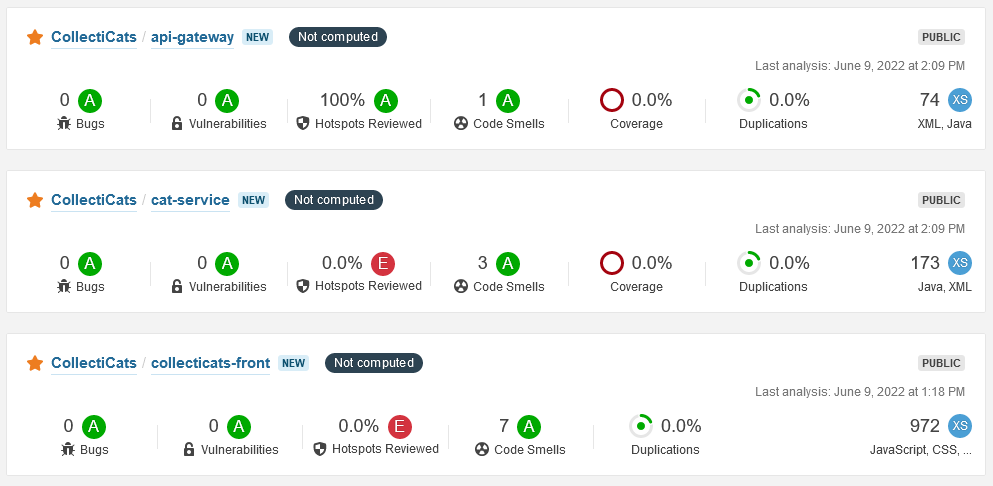
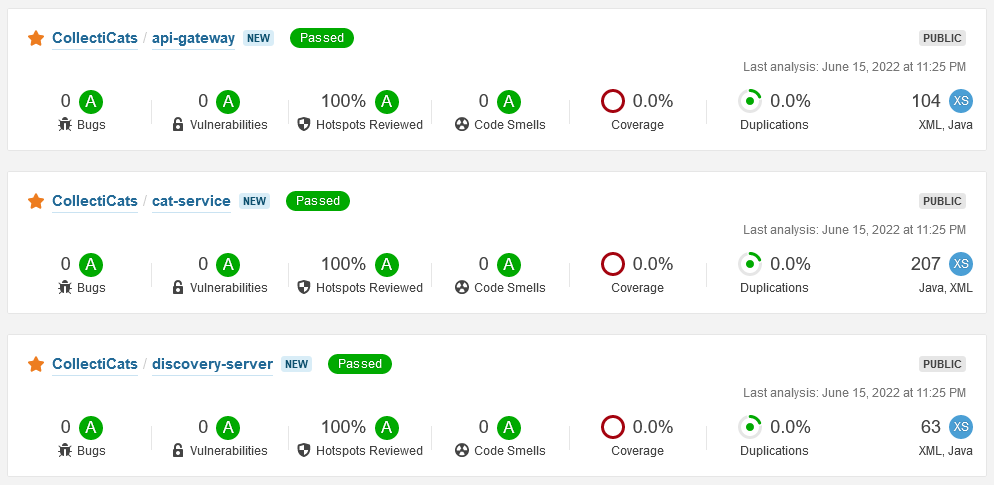
README: added and expanded sections

diff --git a/README.md b/README.md
@@ -18,6 +18,7 @@ Portfolio for semester 3 of the bachelor's program of IT from Fontys University 
 | 1 | Initial version. |
 | 2 | * Added [Learning Outcomes](#2-learning-outcomes)<br>* Updated version of [Cultural Differences research](#31-cultural-differences)<br>* Extended [section 4](#4-individual-project-collecticats): explanation choice for Java and learning process<br>* Added [section 5.2](#52-cicd) about CI/CD within group project |
 | 3 | * Added [Ethics Analysis](#32-ethics)<br>* Added [Agile methods analysis](#33-agile-methods)<br>* Added [section 4.2](#42-cicd) about CI/CD for individual project<br>* Added [section 5.3](#53-software-quality) about software quality for group project |
+| 4 | * Added [Outsourcing research](#35-optimizing-for-outsourcing)<br>* Added IP [Software quality](#43-software-quality)<br>* Improved IP [Software design](#41-software-design)<br>* Improved IP [CI/CD](#42-cicd) |
 
 <!-- omit in toc -->
 ## Table of contents
@@ -33,7 +34,7 @@ Portfolio for semester 3 of the bachelor's program of IT from Fontys University 
 - [4. Individual Project (CollectiCats)](#4-individual-project-collecticats)
   - [4.1. Software design](#41-software-design)
   - [4.2. CI/CD](#42-cicd)
-  - [Software Quality](#software-quality)
+  - [4.3. Software Quality](#43-software-quality)
 - [5. Group Project (Eeventify)](#5-group-project-eeventify)
   - [5.1. Software design](#51-software-design)
   - [5.2. CI/CD](#52-cicd)
@@ -95,7 +96,10 @@ A software engineer seldom works on a project alone, and the software you develo
 
 Inspired by: [CryptoKitties](https://www.cryptokitties.co/)
 
-CollectiCats is my individual project and is a web based collecting/trading game where players can collect virtual cats and trade them with each other. These cats have unique properties as a result of their genes. Try to collect as many special and rare cats as you can!
+CollectiCats is my individual project and is a web based collecting/trading game where players can collect virtual cats and trade them with each other. These cats have unique properties as a result of their genes. The goal is to try and collect as many special and rare cats as you can!
+
+![Screenshot of overview of owned cats on CollectiCats front end web page](images/collecticats_overview.png)  
+*Overview of owned cats on CollectiCats front end web page.*
 
 I have made use of the SCRUM framework while working on this project and chose Taiga.io as the tool to help me manage this process. I have chosen to divide the project into five sprints of three weeks each.  
 [🌐 View project management on Taiga.io](https://tree.taiga.io/project/jeffrey_derksen-s3-individual)
@@ -116,26 +120,45 @@ For the CollectiCats application I have made a user stories, an entity relation 
 
 ### 4.2. CI/CD
 
-I applied the knowledge that I acquired while setting up the continuous integration for Eeventify to set up CI/CD for my individual project as well. Both repositories use two workflows: a Main workflow and a Nightly workflow. The Main workflow runs whenever any code is pushed to the main branch of the repository, or when a pull request is created. It performs the following actions:
-- Builds the projects and runs unit tests;
-- Builds Docker images for each project/service;
-- Publishes the images to DockerHub.
+I applied the knowledge that I acquired while setting up the continuous integration for the group project to set up CI/CD for my individual project as well. Both repositories use two workflows: a Main workflow and a Nightly workflow. The Main workflow runs whenever any code is pushed to the main branch of the repository, or when a pull request is created. It performs the following actions:
 
-The Nightly workflow runs every weekday night on the development branch and checks if the project builds correctly and runs any available tests.
+- Builds each service of the project;
+- Builds Docker images for each service;
+- Publishes the images to DockerHub;
+- Performs integration tests.
+
+The Nightly workflow runs every weekday night on the development branch and checks if the project builds correctly. The code on the development branch is subject to frequent changes which might introduce bugs and errors that are serious enough to prevent the project from building. This nightly check helps detect serious problems early on.
 
 ![Screenshot of CI/CD workflow for CollectiCats](images/collecticats_ci.png)  
 *Example of a CI/CD workflow run of CollectiCats' back end.*
 
-The experience that I gained while working on this improved my proficiency at learning outcome 4: CI/CD.
+I have written a docker-compose file for easily and quickly deploying the back end on a local system or self-hosted server. This file and instructions on how to use it can be found in the [CollectiCats back end repository](https://github.com/jeffrey-fontys/collecticats).
+
+Working on the CI/CD workflow for my individual project has improved my proficiency at and experience with learning outcome 4: CI/CD.
 
 [📄 View file Main](https://github.com/jeffrey-fontys/collecticats/blob/main/.github/workflows/maven.yml) | [📄 View file Nightly](https://github.com/jeffrey-fontys/collecticats/blob/main/.github/workflows/nightly.yml)
 
-### Software Quality
+### 4.3. Software Quality
 
-One of the ways to monitor and improve code quality is to implement static code analysis into your application. I have chosen to do this with SonarCloud. This platform offers easy integration with GitHub and checks for a plethora of possible quality issues, such as: bugs, vulnerabilities, code smells, test coverage, and duplication of code. It checks my code before it is merged into the main branch of my repository and thus makes it very easy for me to fix any of the aforementioned quality issues before they get pushed out to production.
+In order to guarantee good software quality and performance for the CollectiCats back end application, I have written a number of integration tests with [Postman](https://www.postman.com/). These tests are scheduled to run every time a pull request is opened on the CollectiCats back end repository in GitHub. I have decided to mainly implement integration tests in this project, because the individual back end services contain hardly any custom logic, instead relying mostly on established frameworks. Therefore writing unit tests seemed rather superfluous in this instance. Integration tests allow me to verify that my endpoints respond as they should and that all the services are functional and capable of communicating with each other when run in Docker Compose set-up.
+
+[🌐 View CollectiCats workspace on Postman](https://www.postman.com/jeffrey-fontys/workspace/collecticats)
+
+![Screenshot of a Postman test for the CollectiCats back end](images/collecitcats_postman.png)  
+*A Postman test for the CollectiCats back end.*
+
+![Screenshot of a successful integration test run](images/collecticats_int_tests.png)  
+*Result of a successful integration test run.*
+
+Another way to safeguard and improve software quality is to implement static code analysis into your application. I have chosen to do this with SonarCloud. This platform offers easy integration with GitHub and checks for a plethora of possible quality issues, such as: bugs, vulnerabilities, code smells, test coverage, and duplication of code. It checks my code before it is merged into the main branch of my repository and thus makes it very easy for me to fix any of the aforementioned quality issues before they get pushed out to production.
 
 ![Screenshot of SonarCloud static code analysis overview](images/sonarcloud_overview.png)  
 *Overview of static code analysis for some of my project's services in SonarCloud.*
+
+![Screenshot of SonarCloud static code analysis on Cat service](images/sonarcloud_cat_status.png)  
+*Static code analysis with SonarCloud helped me to solve four quality issues present within my cat-service code.*
+
+Writing these tests and implementing SonarCloud into my CI/CD workflow has improved my proficiency at and experience with learning outcome 2: Software quality.
 
 [⬆ Back to Table of Contents](#table-of-contents)
 
@@ -175,9 +198,11 @@ I believe that I learned a lot about CI/CD while setting these workflows up for 
 
 ### 5.3. Software quality
 
-In order to guarantee good software quality and performance for the Eeventify application, I have written a number of tests with [Postman](https://www.postman.com/). I had never used Postman before so I decided to follow a couple of video tutorials and I looked up entries in the [Postman documentation](https://learning.postman.com/docs/getting-started/introduction) whenever I ran into issues or when I did not know how to use a particular feature of the software.
+In order to guarantee good software quality and performance for the Eeventify application, I have written a number of integration tests with [Postman](https://www.postman.com/). I had never used Postman before so I decided to follow a couple of video tutorials and I looked up entries in the [Postman documentation](https://learning.postman.com/docs/getting-started/introduction) whenever I ran into issues or when I did not know how to use a particular feature of the software.
 
 The tests I have written are scheduled to run every weekday and test every endpoint of the API for availability and correct response. In case Postman runs into any errors during such a run, it notifies both me and my colleague who manages the server via email. This way any malfunctions can be detected and resolved quickly.
+
+[🌐 View Eeventify workspace on Postman](https://www.postman.com/jeffrey-fontys/workspace/eeventify)
 
 ![Screenshot showing Postman test of Event API](images/eeventify_postman_test.png)  
 ![Screenshot showing Postman monitor results](images/eeventify_postman_monitor.png)  
